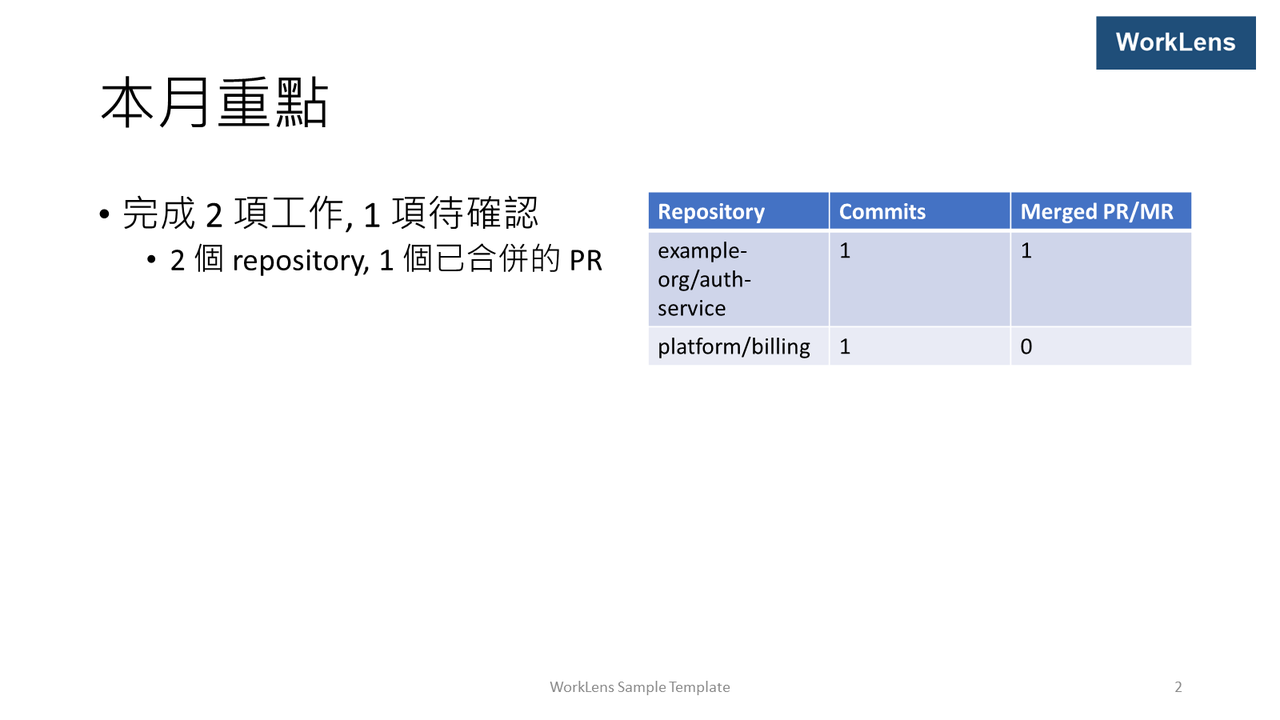
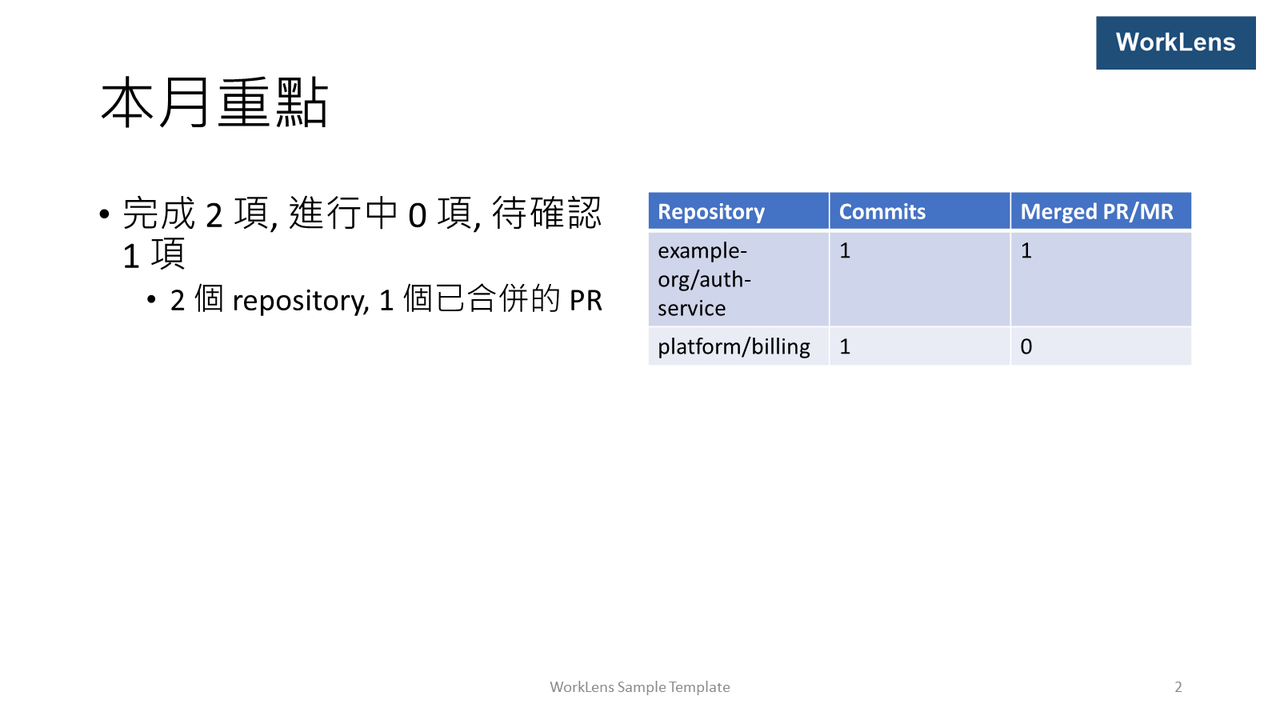
fix(templates): recalibrate the summary activity table and show in-progress items
The activity table at 30 chars / 5 rows could run past the footer; 24 / 4 fits
a PowerPoint-checked worst case (Latin, all-W and all-CJK names, 4 lines each).
The zh-TW summary_status label now counts in-progress work items; the golden
changes only in that line.

Changed region(s): [[0.0938, 0.275, 0.4688, 0.4583]]

diff --git a/tests/WorkLens.Core.Tests/LayoutResolverTests.cs b/tests/WorkLens.Core.Tests/LayoutResolverTests.cs
@@ -89,7 +89,7 @@ public sealed class LayoutResolverTests
         var summary = presentation.Slides[1];
         Assert.Equal(["title", "highlights", "activity"], summary.Bindings.Keys);
         Assert.Equal(
-            [new BulletItem("完成 2 項工作, 1 項待確認", 0), new BulletItem("2 個 repository, 1 個已合併的 PR", 1)],
+            [new BulletItem("完成 2 項, 進行中 0 項, 待確認 1 項", 0), new BulletItem("2 個 repository, 1 個已合併的 PR", 1)],
             Bullets(summary, "highlights"));
         var activity = Table(summary, "activity");
         Assert.Equal(["Repository", "Commits", "Merged PR/MR"], activity.Columns);
@@ -155,7 +155,9 @@ public sealed class LayoutResolverTests
 
         // Statistics exclude the out-of-period and duplicate commits.
         var summary = presentation.Slides.Single(s => s.LayoutId == "summary_v1");
-        Assert.Equal([["example-org/stress-service", "10", "1"], ["platform/stress-billing", "11", "0"]], Table(summary, "activity").Rows);
+        // The 27-character repository path exceeds the activity max_chars (24).
+        Assert.Equal([["example-org/stress-serv…", "10", "1"], ["platform/stress-billing", "11", "0"]], Table(summary, "activity").Rows);
+        Assert.True(Table(summary, "activity").Truncated);
         Assert.DoesNotContain("ev-c000000000000100", summary.SourceRefs);
         Assert.DoesNotContain("ev-c000000000000101", summary.SourceRefs);
         Assert.Contains("ev-c000000000000102", summary.SourceRefs);

diff --git a/docs/plans/pptx-poc-report.md b/docs/plans/pptx-poc-report.md
@@ -59,7 +59,7 @@ PowerPoint 中修改儲存格 (2, 1)、存檔、重開後內容保留 (P8)。
 | cover `title` | 60 / — | 24 / — |
 | 其他 `title` | 40 / — | 32 / — |
 | summary `highlights` | 80 / 6 | 28 / 5 |
-| summary `activity` (表格) | — / 8 | 30 / 5 |
+| summary `activity` (表格) | — / 8 | 24 / 4 (第二次校正, 見下) |
 | achievements `items` (表格) | 40 / 8 | 40 / 6 |
 | work item `facts` | 90 / 5 | 54 / 5 |
 | narrative `body` | — / 6 | 54 / 5 |
@@ -71,6 +71,10 @@ PowerPoint 中修改儲存格 (2, 1)、存檔、重開後內容保留 (P8)。
 | ![校正前: 2 行標題壓到 logo](pptx-poc-report/stress-before-08-title-logo.png) | ![校正後: 標題結束於 logo 左側](pptx-poc-report/stress-after-08-title-logo.png) |
 | ![校正前: challenges 溢出到頁尾以下](pptx-poc-report/stress-before-09-overflow.png) | ![校正後: 每項 ≤ 2 行, 5 項以內](pptx-poc-report/stress-after-09-overflow.png) |
 
+第二次校正 (activity 表格): 第一次校正的 30 字 / 5 列沒有經過滿列測試 (壓力案例只有 2 個 repository); 以表格幾何估算, 5 列 3 行的名稱會壓到頁尾。改為 24 字 / 4 列, 並以手工製作的最壞情況 (4 列 24 字: 一般路徑、全部 `W`、全部全形字; 每格最多 4 行) 在 PowerPoint 驗證: 表格結束於頁尾之上。同時 zh-TW 的 `summary_status` label 改為「完成 {completed} 項, 進行中 {in_progress} 項, 待確認 {unknown} 項」(原 label 不顯示進行中的項目), 範例 golden 只有這一行改變。
+
+![最壞情況: 4 列 24 字的 activity 表格](pptx-poc-report/worst-02-summary-table.png)
+
 已知限制: 容量以全形最壞情況計, 英文為主的句子大約在一半寬度就被截斷 (寬度意識的 `max_chars` 記入 backlog)。
 
 ## P6 中文換行
@@ -81,7 +85,7 @@ PowerPoint 中修改儲存格 (2, 1)、存檔、重開後內容保留 (P8)。
 - 標點不出現在行首: 全形標點測試行 (「引號」、(括號)、《書名號》、分號、驚嘆號、問號、句號、逗號、頓號、刪節號) 依 PowerPoint 的東亞換行規則斷行。
 - Run 沒有 `a:rPr` (因此沒有 `lang`), PowerPoint 仍依主題的東亞字型 (Microsoft JhengHei) 與拉丁字型 (Calibri) 為每個字元選字型; 沒有觀察到因缺少 `lang` 造成的字型或換行差異。
 - 長 URL 在 `/` 與字串中斷行; 截斷後的 `…` 顯示正確。
-- Activity 表格的 repository 欄為 1/3 寬, 長名稱會換 2–3 行 (可接受)。
+- Activity 表格的 repository 欄為 1/3 寬 (每格一行約 13 個半形字或 7 個全形字), 長名稱會換 2–4 行; 容量見 P5 的第二次校正。
 
 ![壓力案例: 純中文、中英混合、長 URL、全形標點](pptx-poc-report/stress-after-04-cjk-url.png)
 
